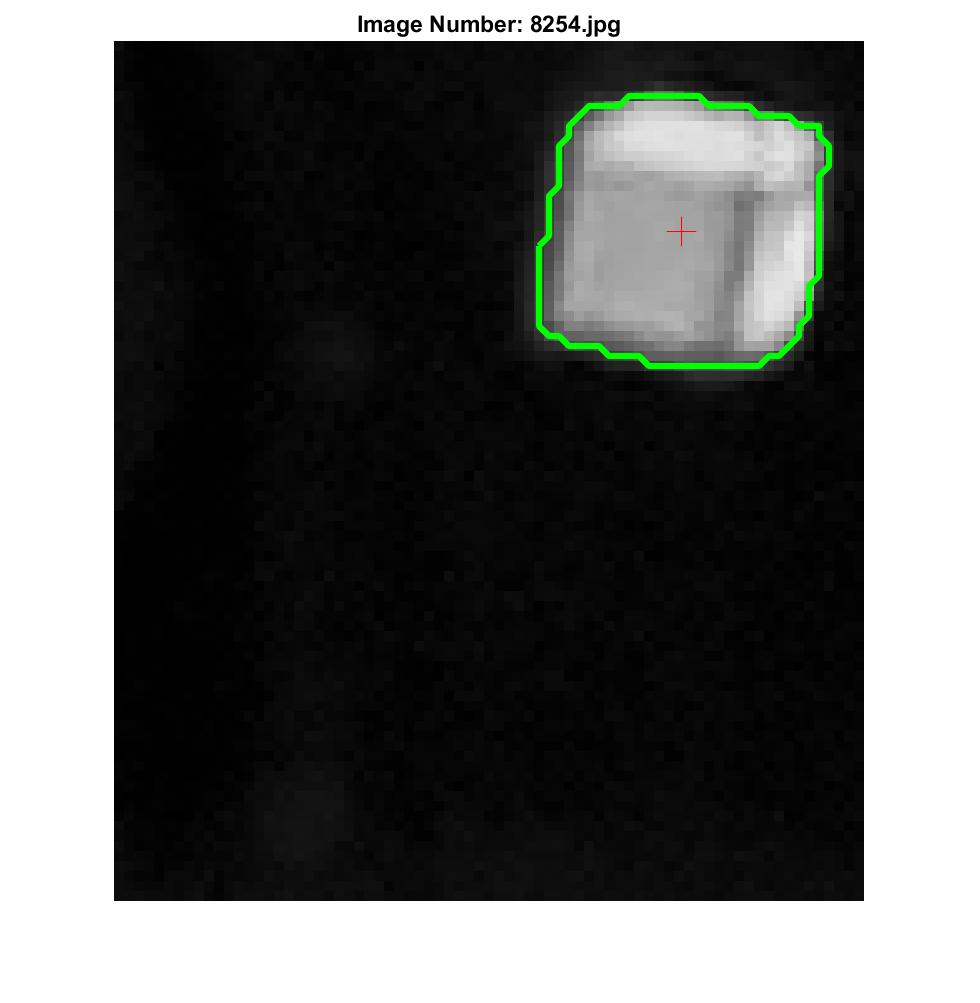
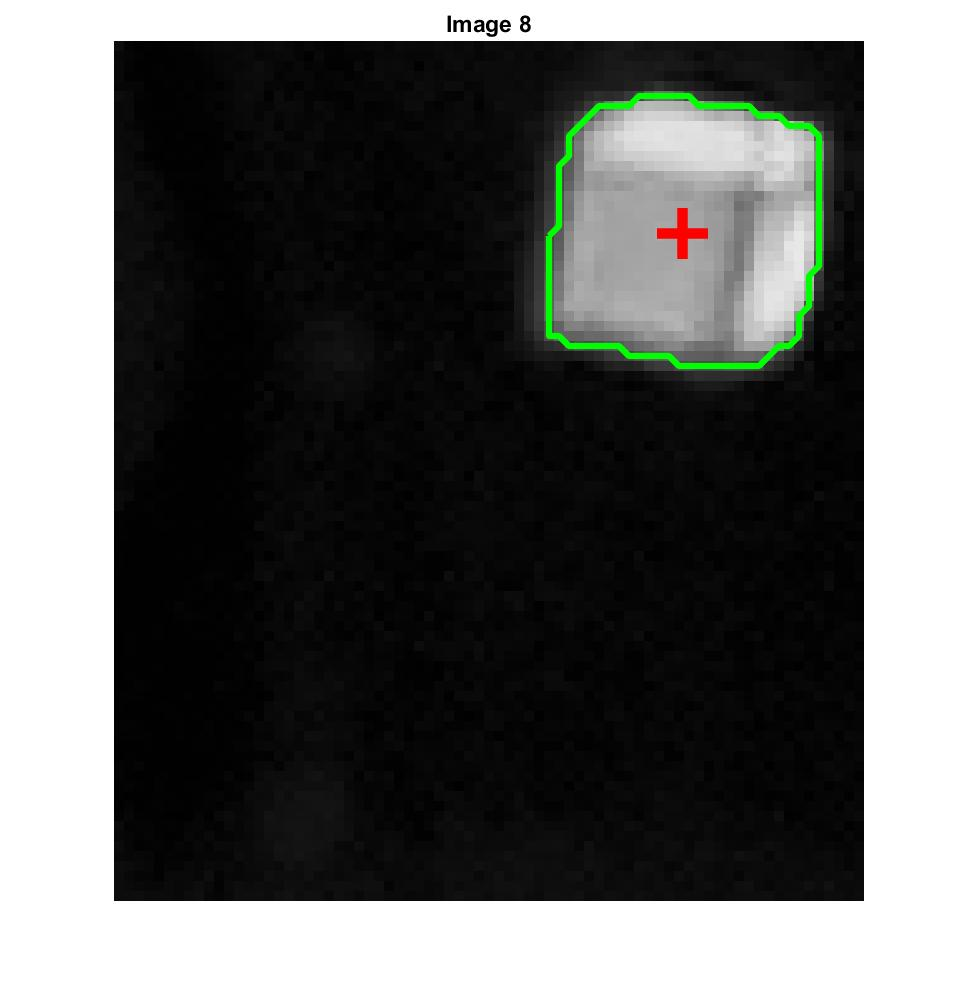
big ol updates to plots

diff --git a/FindCentroid.m b/FindCentroid.m
@@ -4,7 +4,7 @@ for i=1:length(imageFiles)
     I = imread(strcat(imageDirectory,imageFiles(i).name));
     I_gray = rgb2gray(I);
 
-    binaryTolerance = 0.1;
+    binaryTolerance = 0.25;
     I_binarized = imbinarize(I_gray,binaryTolerance);
     [I_boundaries,~,~,~] = bwboundaries(I_binarized);
     
@@ -30,7 +30,7 @@ for i=1:length(imageFiles)
             scatter(mean(b(:,2)),mean(b(:,1)),sz,'r','+','LineWidth',5);
             str = num2str(j);
             text(mean(b(:,2)),mean(b(:,1))+200,str,'Color','red',...
-                'FontSize',50);
+                'FontSize',60);
             plot(b(:,2),b(:,1),'g','LineWidth',3);
         end
     end
@@ -39,11 +39,11 @@ for i=1:length(imageFiles)
     
     if plotGrayscale == 1
         for j = 1:length(object_pixels)
-            xLocation = j;
-            yLocation = j;
-            str = strcat(num2str(j),);
+            xLocation = 1*j;
+            yLocation = 60*j;
+            str = strcat(num2str(j),':  ', num2str(object_pixels(j)),'px');
             text(xLocation,yLocation,str,'Color','red',...
-                    'FontSize',50);
+                    'FontSize',30);
         end
         title(['Image ' , num2str(i)]);
         saveas(gcf,['OutlinedImageOutputs/','outlined_'...

diff --git a/EdgeOutlineDetection.m b/EdgeOutlineDetection.m
@@ -16,7 +16,7 @@ plotBinarized = 0;
 
 %%% Search desired image folder for relevant images
 imageDirectory = 'Images/';
-images = strcat(imageDirectory,'multi*');
+images = strcat(imageDirectory,'8*');
 imageFiles = dir(images);
 
 %Preallocate array to store number of pixels for the cubesats in each image

diff --git a/detectObjects.m b/detectObjects.m
@@ -1,6 +1,6 @@
 function detectedObject = detectObjects(I_boundaries,s,~)
 maxBoundary = max(s);
-pixelThreshold = 0.1*maxBoundary;
+pixelThreshold = 0.9*maxBoundary;
 detectedObject = [];
 for i=1:length(s)
     if s(i) > pixelThreshold
